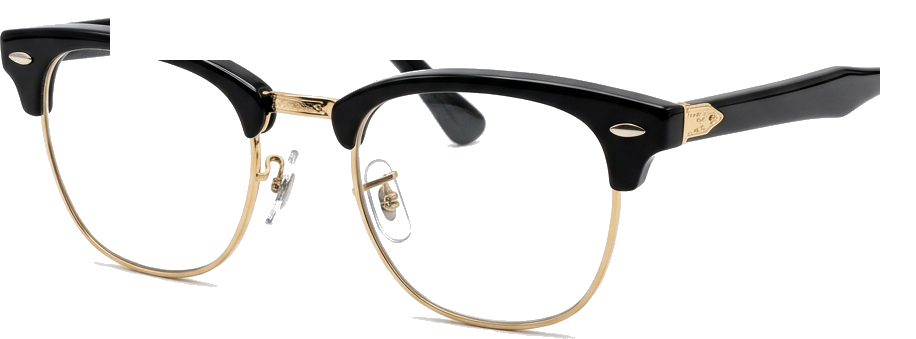
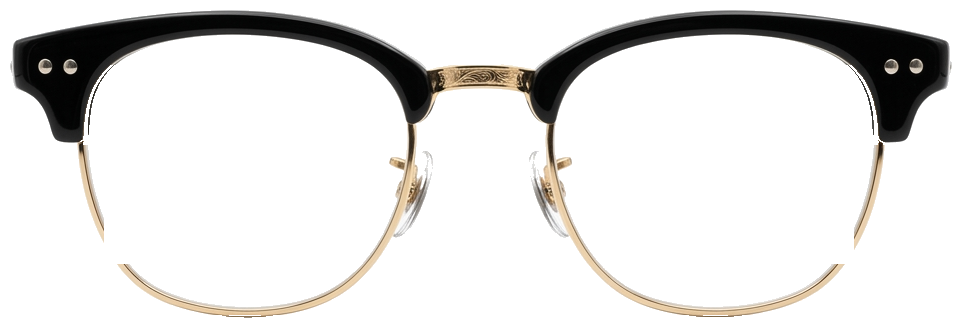
fix(clubmaster): replace broken 3/4 cut image with symmetrical front elevation and align 3D temple arms

Changed region(s): [[0.0, 0.0305, 1.0, 1.0]]

diff --git a/src/components/ThreeSixtyModal.jsx b/src/components/ThreeSixtyModal.jsx
@@ -303,14 +303,15 @@ function buildAuthenticShowroom3DModel(group, product, activeColor, texture, fra
   const shape = product.shape || 'wayfarer';
   const id = product.id || '';
   const isAviator = shape === 'aviator' || id.includes('aviator') || (product.name && product.name.toLowerCase().includes('aviator'));
+  const isClubmaster = id.includes('clubmaster') || (product.name && product.name.toLowerCase().includes('clubmaster'));
   const isMetal = shape === 'round' || shape === 'rectangle' || isAviator;
   const isTortoise = id.includes('tortoise');
-  const isClubmaster = id.includes('clubmaster');
   const isWayfarer = shape === 'wayfarer' && !isClubmaster && !isAviator;
 
   // Frame Color for Temples & Accents
   const frameColorHex = activeColor?.hex || (
     isAviator ? '#d4af37' :
+    isClubmaster ? '#1c1c1e' :
     shape === 'round' && id.includes('gold') ? '#d4af37' :
     shape === 'round' ? '#b76e79' :
     shape === 'rectangle' ? '#1f2937' :
@@ -322,12 +323,12 @@ function buildAuthenticShowroom3DModel(group, product, activeColor, texture, fra
   // Temple Materials
   const templeMat = new THREE.MeshStandardMaterial({
     color: new THREE.Color(frameColorHex),
-    metalness: isMetal || shape === 'cat-eye' ? 0.85 : 0.08,
-    roughness: isMetal || shape === 'cat-eye' ? 0.2 : 0.25
+    metalness: (isMetal && !isClubmaster) || shape === 'cat-eye' ? 0.85 : 0.08,
+    roughness: (isMetal && !isClubmaster) || shape === 'cat-eye' ? 0.2 : 0.25
   });
 
   // Ear hook tips: tortoiseshell/black acetate for metal wires (matching card photos!), or matching acetate
-  const earTipColor = isMetal || shape === 'cat-eye'
+  const earTipColor = (isMetal && !isClubmaster) || shape === 'cat-eye'
     ? (id.includes('gold') || id.includes('rosegold') ? '#422410' : shape === 'cat-eye' ? '#6b2148' : '#18181b')
     : frameColorHex;
 
@@ -375,14 +376,14 @@ function buildAuthenticShowroom3DModel(group, product, activeColor, texture, fra
 
   // 2. PHYSICAL 3D TEMPLE ARMS & HINGES (Connecting from outer rim to Z = -2.5)
   // Calculate exact hinge attachment coordinates based on frame silhouette
-  const hingeFractionX = isWayfarer ? 0.90 : isClubmaster ? 0.91 : 0.93;
-  const hingeFractionY = isWayfarer ? 0.16 : shape === 'cat-eye' ? 0.22 : isClubmaster ? 0.19 : 0.08;
+  const hingeFractionX = isWayfarer ? 0.90 : isClubmaster ? 0.94 : 0.93;
+  const hingeFractionY = isWayfarer ? 0.16 : shape === 'cat-eye' ? 0.22 : isClubmaster ? 0.26 : 0.08;
 
   const hingeX = (frameWidth / 2) * hingeFractionX;
   const hingeY = frameHeight * hingeFractionY;
 
-  const stemRadius = isMetal ? 0.016 : 0.024;
-  const hookRadius = isMetal ? 0.022 : 0.029;
+  const stemRadius = (isMetal && !isClubmaster) ? 0.016 : 0.024;
+  const hookRadius = (isMetal && !isClubmaster) ? 0.022 : 0.029;
 
   for (let side of [-1, 1]) {
     const x = side * hingeX;
@@ -416,7 +417,7 @@ function buildAuthenticShowroom3DModel(group, product, activeColor, texture, fra
     group.add(hookMesh);
 
     // Silicone Nose Pads (for metal/wireframe and hybrid frames only, excluding frames with photorealistic pads)
-    if ((isMetal || isClubmaster || shape === 'cat-eye') && !isAviator) {
+    if ((isMetal || shape === 'cat-eye') && !isAviator && !isClubmaster) {
       const padX = side * 0.20;
       const padY = -0.08;
       const padZ = -0.06;
